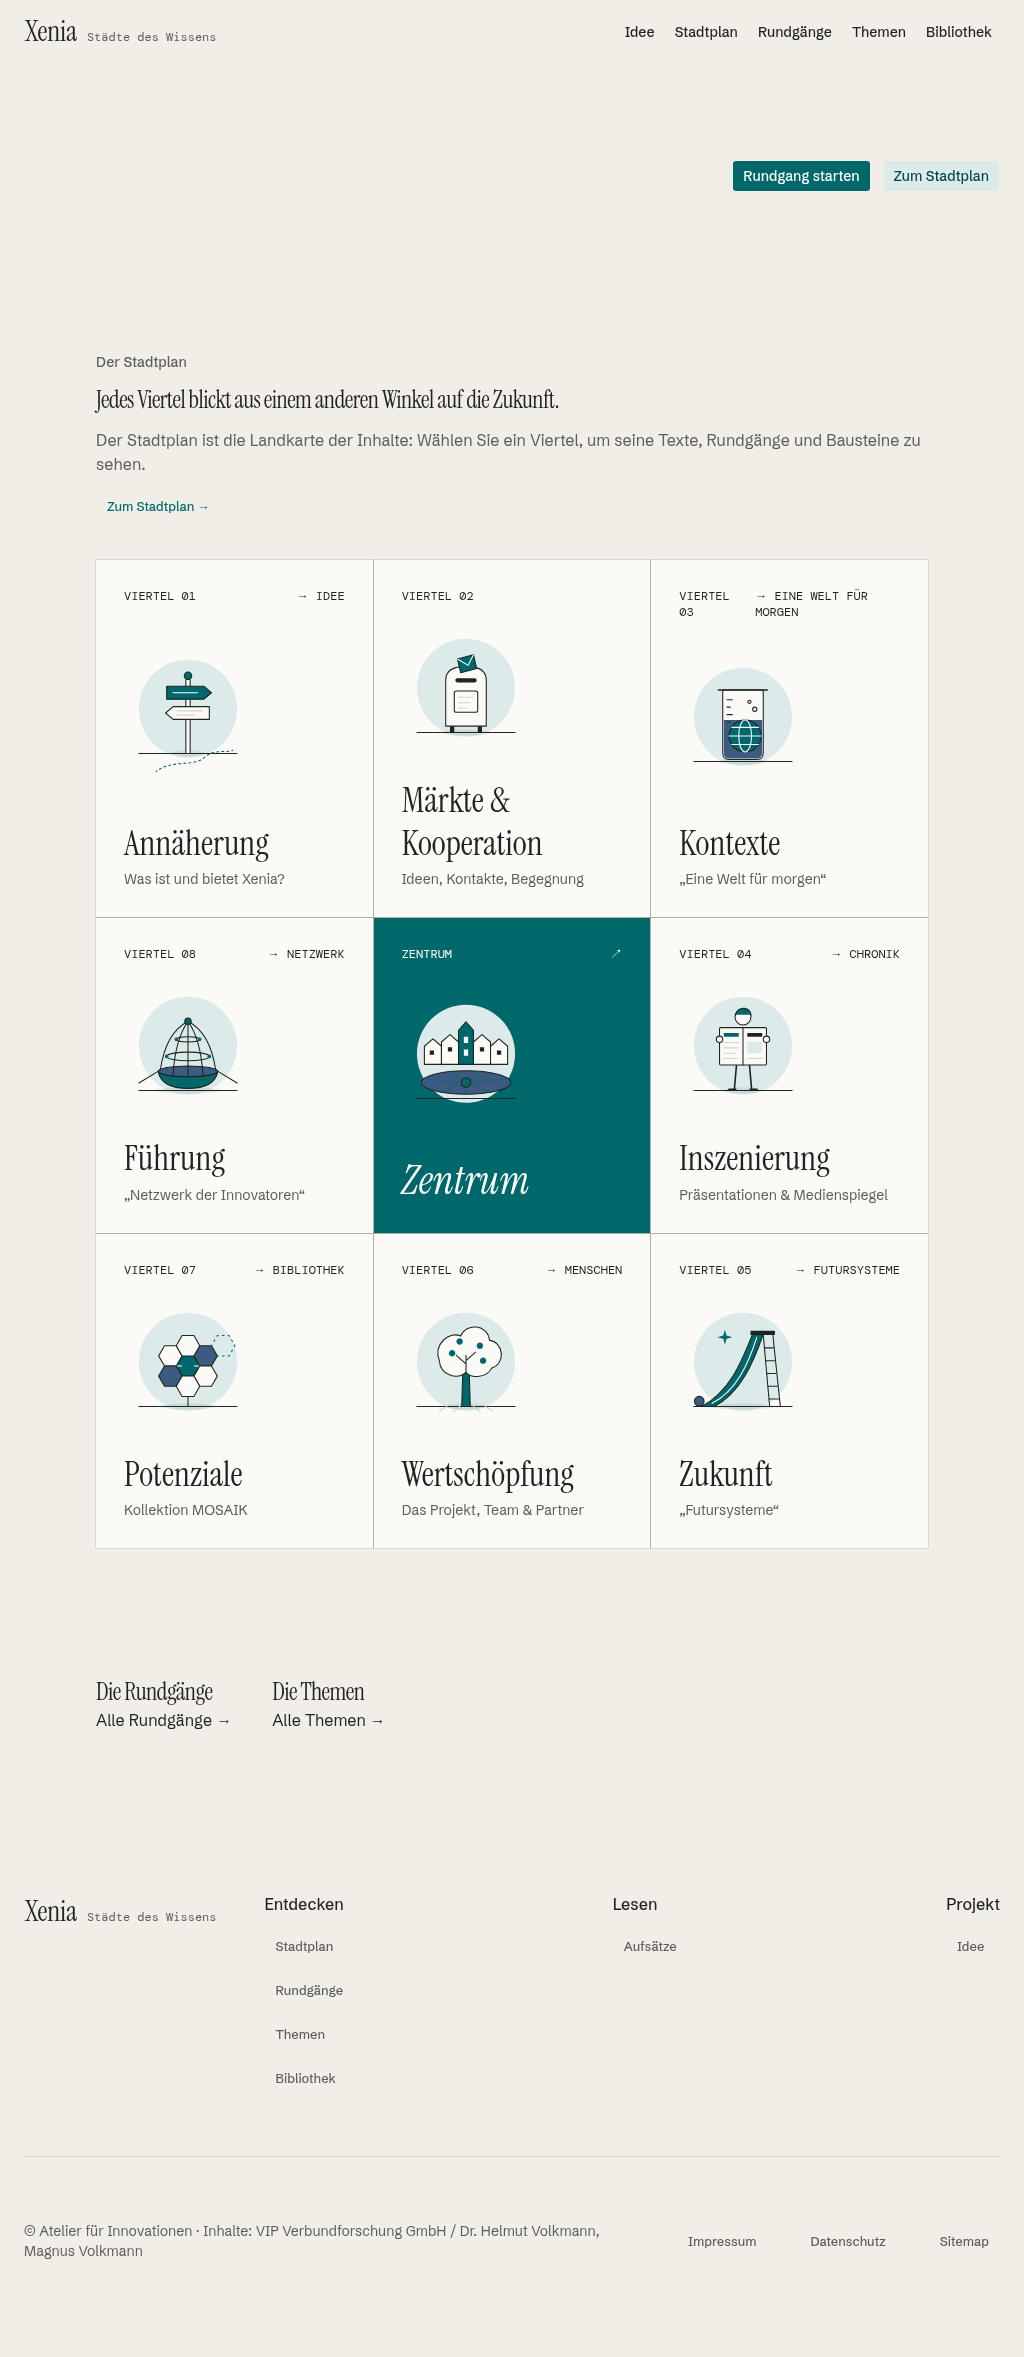
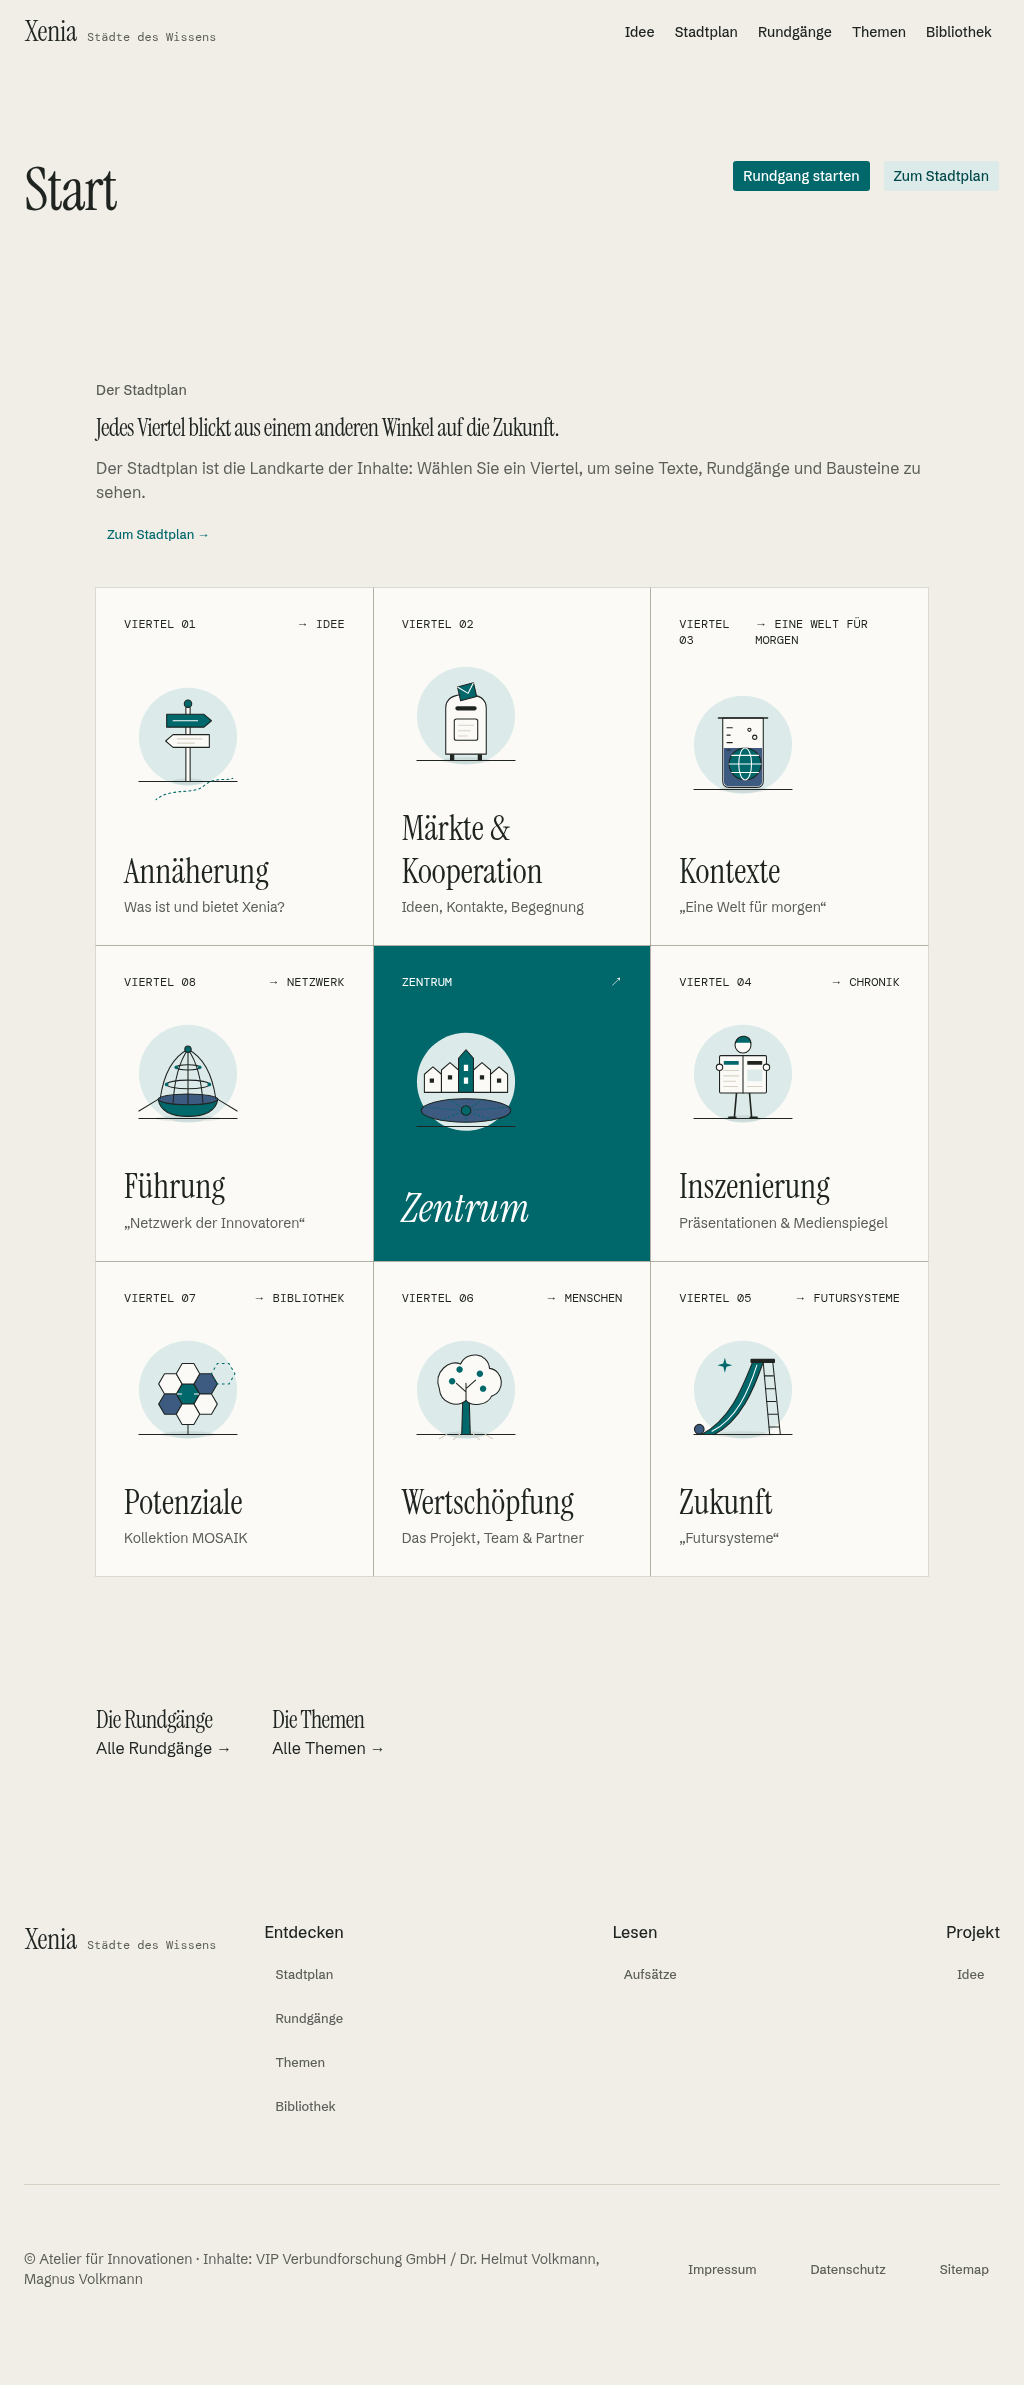
fix: restore heading/title fallback and re-export duplicate Figma screenshot (issue #130)
Addresses the two blocking findings from the independent review of the
previous pass on this branch:

- start-hub.tsx dropped the `seite.heading ?? seite.title` fallback that
  existed at the fixed point when it switched to HeroSection7, so the real
  content (title-only) shipped the Startseite with zero <h1> elements,
  unlike every other page branch in page.tsx. Restored the fallback;
  updated start-hub.test.tsx's empty-fixture test to assert the title
  renders as the Hero heading instead of asserting no <h1> at all.
- review-evidence/figma/t01-130/hero-desktop-36577-16723.png was a
  byte-identical copy of hero-1440-36579-8663.png, not the actual export of
  its own node. Re-fetched node 36577:16723 from the Figma REST API
  (file ms4MqN4CJhsLTMTKqTSC8p) and replaced it with the real export.

Also refreshed all 8 review-evidence/start-*.png screenshots (four
breakpoints, light/dark): the heading fix visibly changes the rendered
page, so the previous screenshots (showing an empty Hero heading) were
stale evidence.

Verified with pnpm check && pnpm build && pnpm links:check (the
eslint.config.test.ts cold-start flake under parallel load, noted in
#129/#130's own history, still reproduces identically and passes in
isolation).

diff --git a/src/components/start/start-hub.test.tsx b/src/components/start/start-hub.test.tsx
@@ -70,14 +70,15 @@ describe('StartHub', () => {
 		expect(html).toContain('Alle Themen →')
 	})
 
-	it('leaves out the tagline, heading, intro, testimonial and Rundgang-starten button a document never sets (issue #130)', () => {
+	it('leaves out the tagline, intro, testimonial and Rundgang-starten button a document never sets, falling back to the title for the heading (issue #130)', () => {
 		const html = renderFixture('start-hub-empty')
 		const heroMatch = /<section data-slot="hero-section-7"[^]*?<\/section>/.exec(html)
 		if (!heroMatch) throw new Error('Hero section missing from the render')
 		const hero = heroMatch[0]
 
 		expect(hero).not.toContain('data-slot="tagline"')
-		expect(hero).not.toContain('<h1')
+		expect(hero).toContain('<h1')
+		expect(hero).toContain('Start</h1>')
 		expect(html).not.toContain('data-slot="testimonials-section-1"')
 		expect(html).not.toContain('Rundgang starten')
 		expect(html).toContain('href="/stadt"')

diff --git a/src/components/start/start-hub.tsx b/src/components/start/start-hub.tsx
@@ -42,7 +42,7 @@ function StartHub({ seite, className, ...props }: StartHubProps) {
 		<div data-slot="start-hub" className={cn(className)} {...props}>
 			<HeroSection7
 				tagline={seite.tagline}
-				heading={seite.heading}
+				heading={seite.heading ?? seite.title}
 				intro={seite.intro}
 				actions={
 					<>
